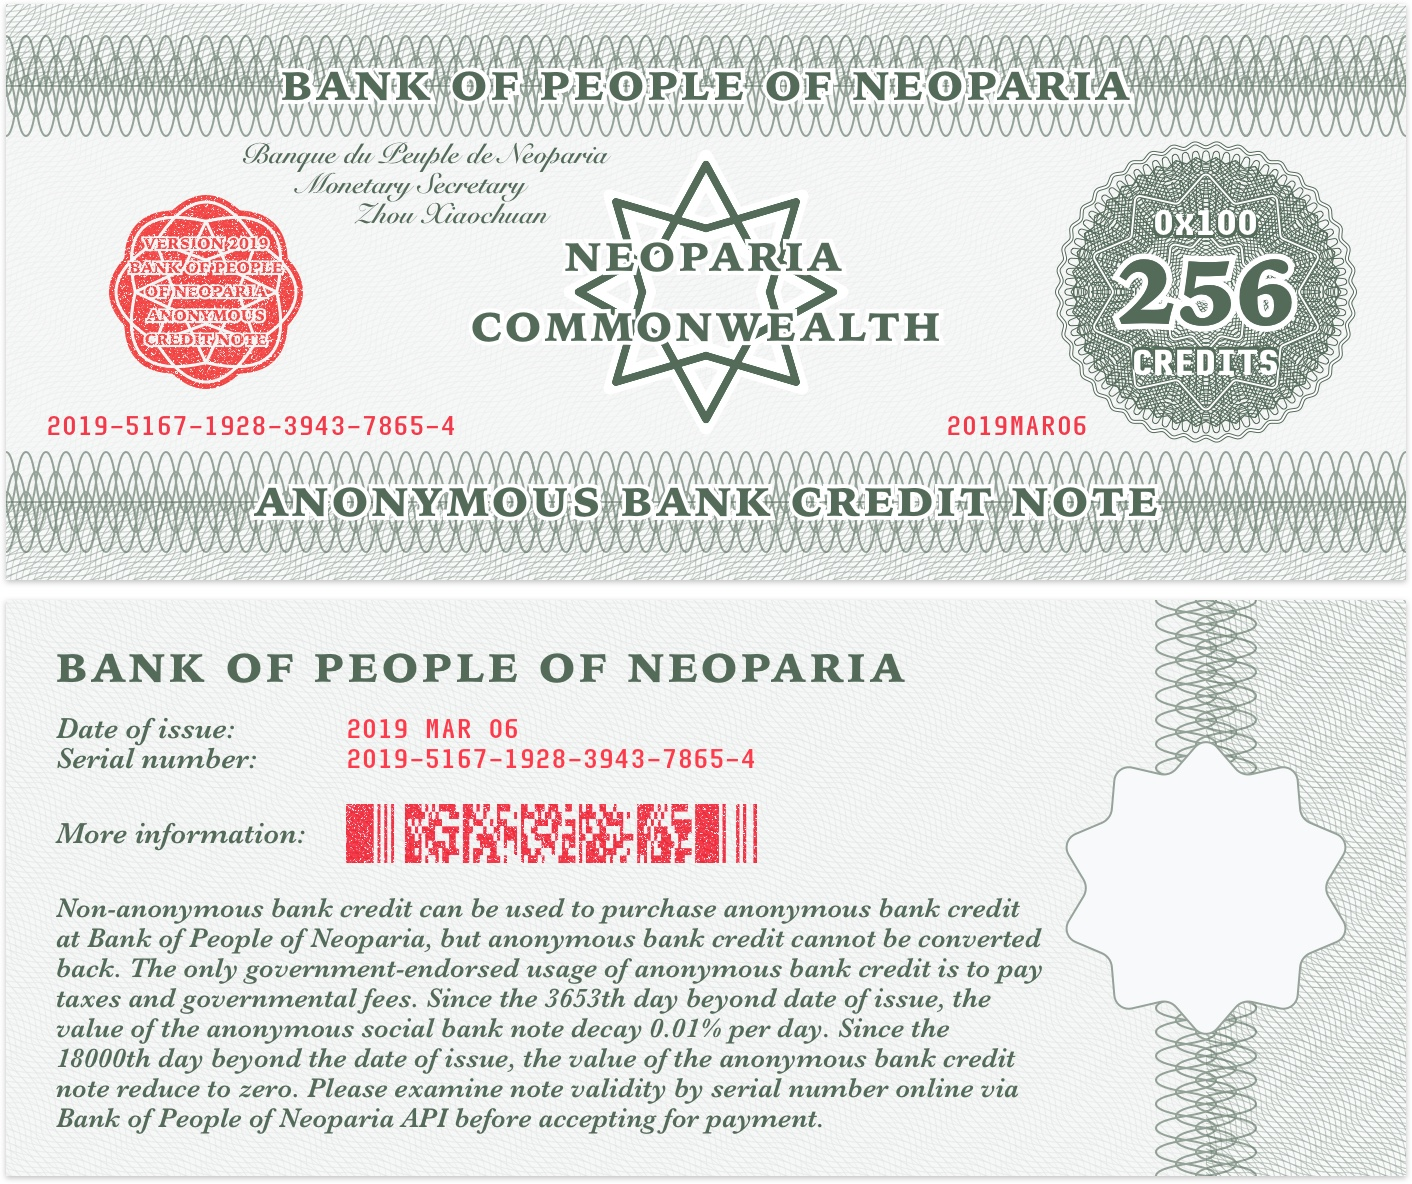
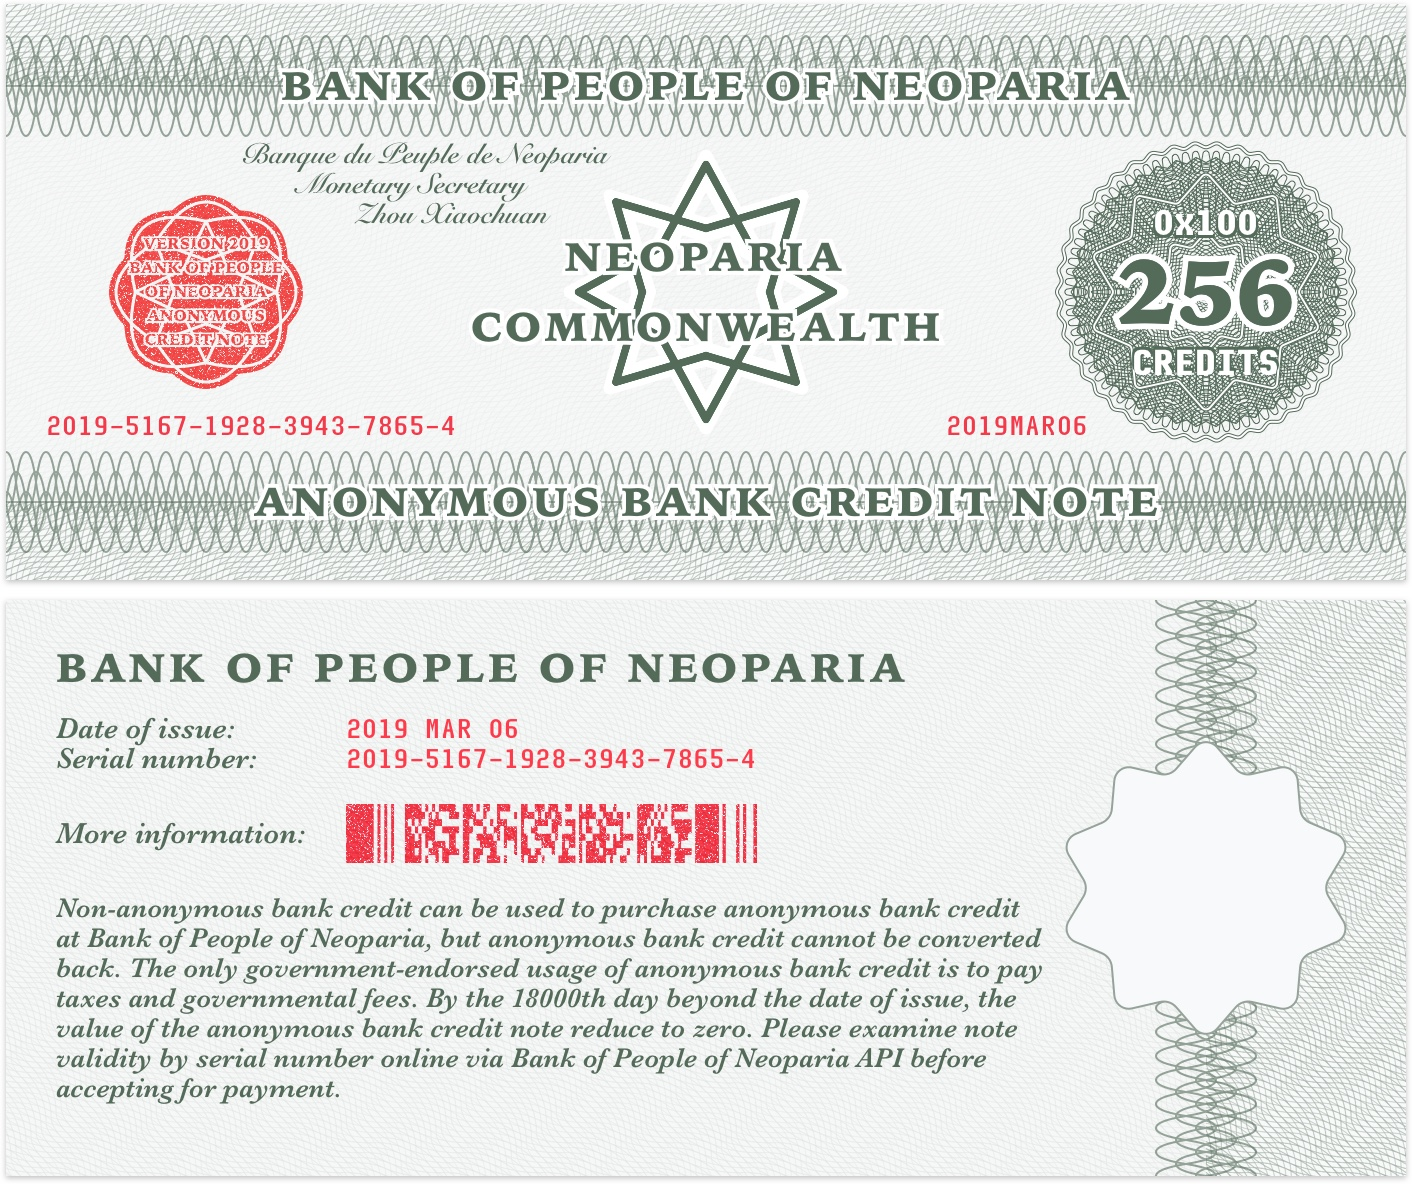
policy changed for anonymous bank credit notes

Changed region(s): [[0.0312, 0.8125, 0.7167, 0.9688]]

diff --git a/album/db/22.html b/album/db/22.html
@@ -8,7 +8,7 @@
 
 <p>Neoparia Bank Credit is the legal currency in Neoparia Commonwealth. Bank of People of Neoparia issue Neoparia Bank Credits and therefore act as un government agency for monetary policy.</p>
 <p>Usually, credits are digitalized and there is little need for cash. Anonymous transactions are permitted but are not recommended, due to concerns over money laundery.</p>
-<p>Non-anonymous bank credit can be used to purchase anonymous bank credit at Bank of People of Neoparia, but anonymous bank credit cannot be converted back. The only government-endorsed usage of anonymous bank credit is to pay taxes and governmental fees. Since the 3653th day beyond date of issue, the value of the anonymous social bank note decay 0.01% per day. Since the 18000th day beyond the date of issue, the value of the anonymous bank credit note reduce to zero.</p>
+<p>Non-anonymous bank credit can be used to purchase anonymous bank credit at Bank of People of Neoparia, but anonymous bank credit cannot be converted back. The only government-endorsed usage of anonymous bank credit is to pay taxes and governmental fees. By the 18000th day beyond the date of issue, the value of the anonymous bank credit note reduce to zero.</p>
 
 <figure><img class="custom banknote-l1" src="/album/img/0000201903060001.jpg"><figcaption>256 credits</figcaption></figure>
 <figure><img class="custom banknote-l1" src="/album/img/0000201903060002.jpg"><figcaption>64 credits</figcaption></figure>
